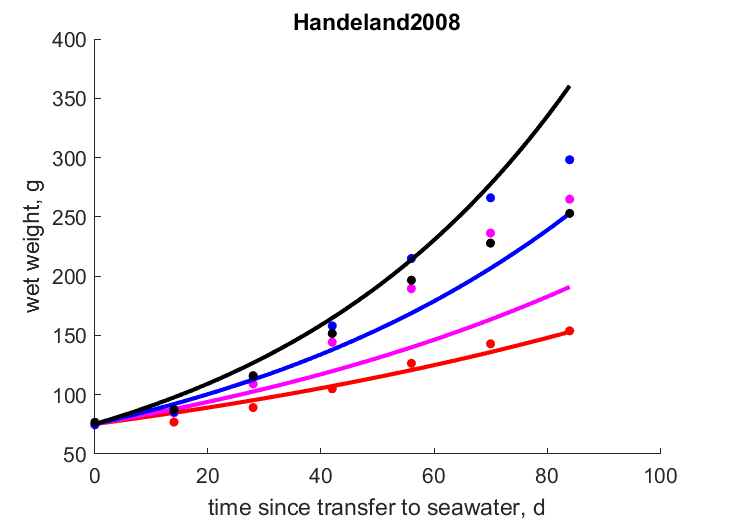
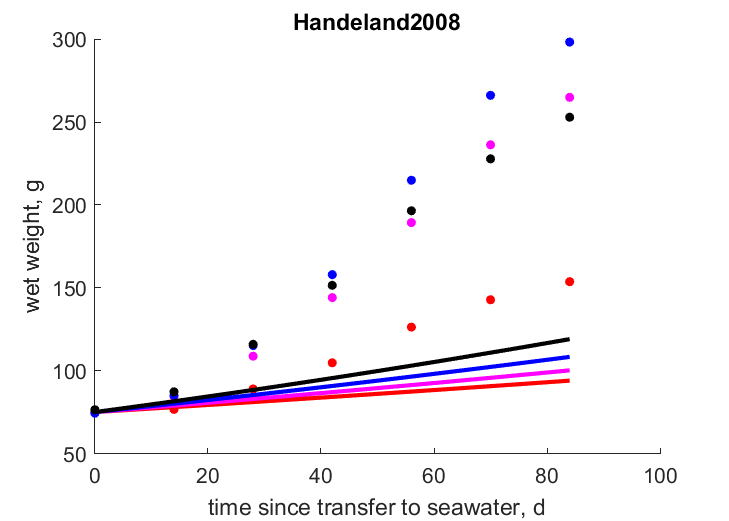
tout fonctionne (les résultats sont sans convergence)

diff --git a/Salmo_salar_farm_res.html b/Salmo_salar_farm_res.html
@@ -44,7 +44,7 @@
   </div>
 
   <div class="par">
-  <h4>COMPLETE = 2.5; MRE =    0.345; SMSE =    0.360 </h4>
+  <h4>COMPLETE = 2.5; MRE =    0.883; SMSE =    0.506 </h4>
   </div>
 
   <p class="clear"></p>
@@ -53,54 +53,54 @@
   <h2>Data & predictions</h2>
   <TABLE id="prd">
     <TR  class="head"><TH>data</TH> <TH>prd</TH> <TH>RE</TH>  <TH>symbol</TH> <TH>units</TH> <TH>description</TH> </TR>
-    <TR><TD>183</TD> <TD>145</TD> <TD>0.2075</TD> <TD>ab_norM</TD> <TD>d</TD> <TD>age at first feeding</TD></TR>
-    <TR><TD>183</TD> <TD>160.5</TD> <TD>0.123</TD> <TD>ab_norM2</TD> <TD>d</TD> <TD>age at first feeding</TD></TR>
-    <TR><TD>58.33</TD> <TD>25.37</TD> <TD>0.5652</TD> <TD>tb_12_AqG</TD> <TD>d</TD> <TD>time between hatching and first feeding</TD></TR>
-    <TR><TD>21.54</TD> <TD>23.75</TD> <TD>0.1027</TD> <TD>tb_norB</TD> <TD>d</TD> <TD>time between hatching and first feeding</TD></TR>
-    <TR><TD>390.8</TD> <TD>1436</TD> <TD>2.674</TD> <TD>ap_norNBP</TD> <TD>d</TD> <TD>age at puberty</TD></TR>
-    <TR><TD>1070</TD> <TD>1436</TD> <TD>0.3416</TD> <TD>ap_norire</TD> <TD>d</TD> <TD>age at puberty</TD></TR>
-    <TR><TD>1461</TD> <TD>1461</TD> <TD>6.076e-06</TD> <TD>am</TD> <TD>d</TD> <TD>max age at spawning</TD></TR>
-    <TR><TD>2.89</TD> <TD>2.92</TD> <TD>0.01055</TD> <TD>Lb_NorM2011</TD> <TD>cm</TD> <TD>total length at birth</TD></TR>
-    <TR><TD>2.81</TD> <TD>2.92</TD> <TD>0.03932</TD> <TD>Lb_NorM2012</TD> <TD>cm</TD> <TD>total length at birth</TD></TR>
-    <TR><TD>2.84</TD> <TD>2.92</TD> <TD>0.02834</TD> <TD>Lb_NorM2013</TD> <TD>cm</TD> <TD>total length at birth</TD></TR>
-    <TR><TD>2.83</TD> <TD>2.92</TD> <TD>0.03197</TD> <TD>Lb_NorS2013</TD> <TD>cm</TD> <TD>total length at birth</TD></TR>
-    <TR><TD>55.4</TD> <TD>62.01</TD> <TD>0.1194</TD> <TD>Lp_norSf</TD> <TD>cm</TD> <TD>postorbital-hypural length at at first spawning</TD></TR>
-    <TR><TD>57.5</TD> <TD>62.01</TD> <TD>0.07849</TD> <TD>Lp_norSm</TD> <TD>cm</TD> <TD>postorbital-hypural length at at first spawning</TD></TR>
-    <TR><TD>111</TD> <TD>108.8</TD> <TD>0.01948</TD> <TD>Li</TD> <TD>cm</TD> <TD>length at puberty</TD></TR>
-    <TR><TD>111.4</TD> <TD>0.4268</TD> <TD>0.9962</TD> <TD>V0_norM2011</TD> <TD>cm^3</TD> <TD>egg volume</TD></TR>
-    <TR><TD>121.2</TD> <TD>0.4268</TD> <TD>0.9965</TD> <TD>V0_norM2012</TD> <TD>cm^3</TD> <TD>egg volume</TD></TR>
-    <TR><TD>119.4</TD> <TD>0.4268</TD> <TD>0.9964</TD> <TD>V0_norM2013</TD> <TD>cm^3</TD> <TD>egg volume</TD></TR>
-    <TR><TD>3696</TD> <TD>3279</TD> <TD>0.1129</TD> <TD>Wwp_norf</TD> <TD>g</TD> <TD>wet weight at puberty</TD></TR>
-    <TR><TD>4008</TD> <TD>3279</TD> <TD>0.182</TD> <TD>Wwp_norm</TD> <TD>g</TD> <TD>wet weight at puberty</TD></TR>
-    <TR><TD>1.4e+04</TD> <TD>1.5e+04</TD> <TD>0.0711</TD> <TD>Wwi_norM</TD> <TD>g</TD> <TD>maximum wet weight</TD></TR>
-    <TR><TD colspan="2">see figure</TD> <TD>0.7142</TD> <TD>Tah_Gunnes1979</TD> <TD colspan="2">temperature, <font color="blue"><i>vs.</i></font> age at hatching</TD>
-    <TR><TD colspan="2">see figure</TD> <TD>0.3112</TD> <TD>Tah_Wallace1988</TD> <TD colspan="2">temperature, <font color="blue"><i>vs.</i></font> age at hatching</TD>
-    <TR><TD colspan="2">see figure</TD> <TD>0.1703</TD> <TD>Tah_Solberg2014</TD> <TD colspan="2">temperature, <font color="blue"><i>vs.</i></font> age at hatching</TD>
-    <TR><TD colspan="2">see figure</TD> <TD>0.4734</TD> <TD>Tah_Berg1999</TD> <TD colspan="2">temperature, <font color="blue"><i>vs.</i></font> age at hatching</TD>
-    <TR><TD colspan="2">see figure</TD> <TD>0.2971</TD> <TD>tL_iceT11</TD> <TD colspan="2">time, <font color="blue"><i>vs.</i></font> wet weight</TD>
-    <TR><TD colspan="2">see figure</TD> <TD>0.1714</TD> <TD>tL_iceT611</TD> <TD colspan="2">time, <font color="blue"><i>vs.</i></font> wet weight</TD>
-    <TR><TD colspan="2">see figure</TD> <TD>0.06793</TD> <TD>tL_norM2003</TD> <TD colspan="2">time, <font color="blue"><i>vs.</i></font> fork length</TD>
-    <TR><TD colspan="2">see figure</TD> <TD>0.06684</TD> <TD>tL_norM2004</TD> <TD colspan="2">time, <font color="blue"><i>vs.</i></font> fork length</TD>
-    <TR><TD colspan="2">see figure</TD> <TD>0.5011</TD> <TD>tWwVe_T12</TD> <TD colspan="2">time since fertilization, <font color="blue"><i>vs.</i></font> wet weight excluding yolk</TD>
-    <TR><TD colspan="2">see figure</TD> <TD>0.08501</TD> <TD>tWwVe_T10</TD> <TD colspan="2">time since fertilization, <font color="blue"><i>vs.</i></font> wet weight excluding yolk</TD>
-    <TR><TD colspan="2">see figure</TD> <TD>0.2295</TD> <TD>tWwVe_T8</TD> <TD colspan="2">time since fertilization, <font color="blue"><i>vs.</i></font> wet weight excluding yolk</TD>
-    <TR><TD colspan="2">see figure</TD> <TD>0.3417</TD> <TD>tWwYe_T12</TD> <TD colspan="2">time since fertilization, <font color="blue"><i>vs.</i></font> yolk wet weight</TD>
-    <TR><TD colspan="2">see figure</TD> <TD>0.2521</TD> <TD>tWwYe_T10</TD> <TD colspan="2">time since fertilization, <font color="blue"><i>vs.</i></font> yolk wet weight</TD>
-    <TR><TD colspan="2">see figure</TD> <TD>0.1784</TD> <TD>tWwYe_T8</TD> <TD colspan="2">time since fertilization, <font color="blue"><i>vs.</i></font> yolk wet weight</TD>
-    <TR><TD colspan="2">see figure</TD> <TD>2.088</TD> <TD>tWw_norB</TD> <TD colspan="2">time, <font color="blue"><i>vs.</i></font> wet weight</TD>
-    <TR><TD colspan="2">see figure</TD> <TD>0.3012</TD> <TD>tWw_T4_Mow</TD> <TD colspan="2">time since transfer to seawater, <font color="blue"><i>vs.</i></font> wet weight</TD>
-    <TR><TD colspan="2">see figure</TD> <TD>0.1685</TD> <TD>tWw_T8_Mow</TD> <TD colspan="2">time since transfer to seawater, <font color="blue"><i>vs.</i></font> wet weight</TD>
-    <TR><TD colspan="2">see figure</TD> <TD>0.03895</TD> <TD>tWw_T6_AqG</TD> <TD colspan="2">time since transfer to seawater, <font color="blue"><i>vs.</i></font> wet weight</TD>
-    <TR><TD colspan="2">see figure</TD> <TD>0.2096</TD> <TD>tWw_T10_AqG</TD> <TD colspan="2">time since transfer to seawater, <font color="blue"><i>vs.</i></font> wet weight</TD>
-    <TR><TD colspan="2">see figure</TD> <TD>0.1494</TD> <TD>tWw_T14_AqG</TD> <TD colspan="2">time since transfer to seawater, <font color="blue"><i>vs.</i></font> wet weight</TD>
-    <TR><TD colspan="2">see figure</TD> <TD>1.329</TD> <TD>tWw_T18_AqG</TD> <TD colspan="2">time since transfer to seawater, <font color="blue"><i>vs.</i></font> wet weight</TD>
-    <TR><TD colspan="2">see figure</TD> <TD>0.4663</TD> <TD>LWw_AqG</TD> <TD colspan="2">fork length, <font color="blue"><i>vs.</i></font> wet weight</TD>
-    <TR><TD colspan="2">see figure</TD> <TD>0.05244</TD> <TD>LWw_norM</TD> <TD colspan="2">fork length, <font color="blue"><i>vs.</i></font> wet weight</TD>
-    <TR><TD>2.91</TD> <TD>2.877</TD> <TD>0.01152</TD> <TD>Ri</TD> <TD>-/d</TD> <TD>maximum number of live embryos</TD></TR>
-    <TR class="psd"><TD>0.02</TD> <TD>0.03427</TD> <TD>0.7135</TD> <TD>psd.v</TD> <TD>cm/d</TD> <TD>energy conductance</TD></TR>
-    <TR class="psd"><TD>0.8</TD> <TD>0.9801</TD> <TD>0.2251</TD> <TD>psd.kap</TD> <TD>-</TD> <TD>allocation fraction to soma</TD></TR>
+    <TR><TD>183</TD> <TD>148.5</TD> <TD>0.1884</TD> <TD>ab_norM</TD> <TD>d</TD> <TD>age at first feeding</TD></TR>
+    <TR><TD>183</TD> <TD>174.3</TD> <TD>0.04733</TD> <TD>ab_norM2</TD> <TD>d</TD> <TD>age at first feeding</TD></TR>
+    <TR><TD>58.33</TD> <TD>44.32</TD> <TD>0.2403</TD> <TD>tb_12_AqG</TD> <TD>d</TD> <TD>time between hatching and first feeding</TD></TR>
+    <TR><TD>21.54</TD> <TD>41.59</TD> <TD>0.9308</TD> <TD>tb_norB</TD> <TD>d</TD> <TD>time between hatching and first feeding</TD></TR>
+    <TR><TD>390.8</TD> <TD>1771</TD> <TD>3.533</TD> <TD>ap_norNBP</TD> <TD>d</TD> <TD>age at puberty</TD></TR>
+    <TR><TD>1070</TD> <TD>1771</TD> <TD>0.6553</TD> <TD>ap_norire</TD> <TD>d</TD> <TD>age at puberty</TD></TR>
+    <TR><TD>1461</TD> <TD>1.328e+04</TD> <TD>8.092</TD> <TD>am</TD> <TD>d</TD> <TD>max age at spawning</TD></TR>
+    <TR><TD>2.89</TD> <TD>3.95</TD> <TD>0.3667</TD> <TD>Lb_NorM2011</TD> <TD>cm</TD> <TD>total length at birth</TD></TR>
+    <TR><TD>2.81</TD> <TD>3.95</TD> <TD>0.4056</TD> <TD>Lb_NorM2012</TD> <TD>cm</TD> <TD>total length at birth</TD></TR>
+    <TR><TD>2.84</TD> <TD>3.95</TD> <TD>0.3908</TD> <TD>Lb_NorM2013</TD> <TD>cm</TD> <TD>total length at birth</TD></TR>
+    <TR><TD>2.83</TD> <TD>3.95</TD> <TD>0.3957</TD> <TD>Lb_NorS2013</TD> <TD>cm</TD> <TD>total length at birth</TD></TR>
+    <TR><TD>55.4</TD> <TD>34.44</TD> <TD>0.3783</TD> <TD>Lp_norSf</TD> <TD>cm</TD> <TD>postorbital-hypural length at at first spawning</TD></TR>
+    <TR><TD>57.5</TD> <TD>34.44</TD> <TD>0.401</TD> <TD>Lp_norSm</TD> <TD>cm</TD> <TD>postorbital-hypural length at at first spawning</TD></TR>
+    <TR><TD>111</TD> <TD>107.6</TD> <TD>0.0309</TD> <TD>Li</TD> <TD>cm</TD> <TD>length at puberty</TD></TR>
+    <TR><TD>111.4</TD> <TD>0.9876</TD> <TD>0.9911</TD> <TD>V0_norM2011</TD> <TD>cm^3</TD> <TD>egg volume</TD></TR>
+    <TR><TD>121.2</TD> <TD>0.9876</TD> <TD>0.9919</TD> <TD>V0_norM2012</TD> <TD>cm^3</TD> <TD>egg volume</TD></TR>
+    <TR><TD>119.4</TD> <TD>0.9876</TD> <TD>0.9917</TD> <TD>V0_norM2013</TD> <TD>cm^3</TD> <TD>egg volume</TD></TR>
+    <TR><TD>3696</TD> <TD>522.2</TD> <TD>0.8587</TD> <TD>Wwp_norf</TD> <TD>g</TD> <TD>wet weight at puberty</TD></TR>
+    <TR><TD>4008</TD> <TD>522.2</TD> <TD>0.8697</TD> <TD>Wwp_norm</TD> <TD>g</TD> <TD>wet weight at puberty</TD></TR>
+    <TR><TD>1.4e+04</TD> <TD>1.198e+04</TD> <TD>0.1442</TD> <TD>Wwi_norM</TD> <TD>g</TD> <TD>maximum wet weight</TD></TR>
+    <TR><TD colspan="2">see figure</TD> <TD>0.5087</TD> <TD>Tah_Gunnes1979</TD> <TD colspan="2">temperature, <font color="blue"><i>vs.</i></font> age at hatching</TD>
+    <TR><TD colspan="2">see figure</TD> <TD>0.4062</TD> <TD>Tah_Wallace1988</TD> <TD colspan="2">temperature, <font color="blue"><i>vs.</i></font> age at hatching</TD>
+    <TR><TD colspan="2">see figure</TD> <TD>0.07952</TD> <TD>Tah_Solberg2014</TD> <TD colspan="2">temperature, <font color="blue"><i>vs.</i></font> age at hatching</TD>
+    <TR><TD colspan="2">see figure</TD> <TD>0.2926</TD> <TD>Tah_Berg1999</TD> <TD colspan="2">temperature, <font color="blue"><i>vs.</i></font> age at hatching</TD>
+    <TR><TD colspan="2">see figure</TD> <TD>0.08885</TD> <TD>tL_iceT11</TD> <TD colspan="2">time, <font color="blue"><i>vs.</i></font> wet weight</TD>
+    <TR><TD colspan="2">see figure</TD> <TD>0.04337</TD> <TD>tL_iceT611</TD> <TD colspan="2">time, <font color="blue"><i>vs.</i></font> wet weight</TD>
+    <TR><TD colspan="2">see figure</TD> <TD>0.4568</TD> <TD>tL_norM2003</TD> <TD colspan="2">time, <font color="blue"><i>vs.</i></font> fork length</TD>
+    <TR><TD colspan="2">see figure</TD> <TD>0.5247</TD> <TD>tL_norM2004</TD> <TD colspan="2">time, <font color="blue"><i>vs.</i></font> fork length</TD>
+    <TR><TD colspan="2">see figure</TD> <TD>1.214</TD> <TD>tWwVe_T12</TD> <TD colspan="2">time since fertilization, <font color="blue"><i>vs.</i></font> wet weight excluding yolk</TD>
+    <TR><TD colspan="2">see figure</TD> <TD>0.4648</TD> <TD>tWwVe_T10</TD> <TD colspan="2">time since fertilization, <font color="blue"><i>vs.</i></font> wet weight excluding yolk</TD>
+    <TR><TD colspan="2">see figure</TD> <TD>0.1408</TD> <TD>tWwVe_T8</TD> <TD colspan="2">time since fertilization, <font color="blue"><i>vs.</i></font> wet weight excluding yolk</TD>
+    <TR><TD colspan="2">see figure</TD> <TD>2.954</TD> <TD>tWwYe_T12</TD> <TD colspan="2">time since fertilization, <font color="blue"><i>vs.</i></font> yolk wet weight</TD>
+    <TR><TD colspan="2">see figure</TD> <TD>2.655</TD> <TD>tWwYe_T10</TD> <TD colspan="2">time since fertilization, <font color="blue"><i>vs.</i></font> yolk wet weight</TD>
+    <TR><TD colspan="2">see figure</TD> <TD>2.453</TD> <TD>tWwYe_T8</TD> <TD colspan="2">time since fertilization, <font color="blue"><i>vs.</i></font> yolk wet weight</TD>
+    <TR><TD colspan="2">see figure</TD> <TD>0.1303</TD> <TD>tWw_norB</TD> <TD colspan="2">time, <font color="blue"><i>vs.</i></font> wet weight</TD>
+    <TR><TD colspan="2">see figure</TD> <TD>0.08337</TD> <TD>tWw_T4_Mow</TD> <TD colspan="2">time since transfer to seawater, <font color="blue"><i>vs.</i></font> wet weight</TD>
+    <TR><TD colspan="2">see figure</TD> <TD>0.2741</TD> <TD>tWw_T8_Mow</TD> <TD colspan="2">time since transfer to seawater, <font color="blue"><i>vs.</i></font> wet weight</TD>
+    <TR><TD colspan="2">see figure</TD> <TD>0.2346</TD> <TD>tWw_T6_AqG</TD> <TD colspan="2">time since transfer to seawater, <font color="blue"><i>vs.</i></font> wet weight</TD>
+    <TR><TD colspan="2">see figure</TD> <TD>0.4461</TD> <TD>tWw_T10_AqG</TD> <TD colspan="2">time since transfer to seawater, <font color="blue"><i>vs.</i></font> wet weight</TD>
+    <TR><TD colspan="2">see figure</TD> <TD>0.4738</TD> <TD>tWw_T14_AqG</TD> <TD colspan="2">time since transfer to seawater, <font color="blue"><i>vs.</i></font> wet weight</TD>
+    <TR><TD colspan="2">see figure</TD> <TD>2.742</TD> <TD>tWw_T18_AqG</TD> <TD colspan="2">time since transfer to seawater, <font color="blue"><i>vs.</i></font> wet weight</TD>
+    <TR><TD colspan="2">see figure</TD> <TD>0.2231</TD> <TD>LWw_AqG</TD> <TD colspan="2">fork length, <font color="blue"><i>vs.</i></font> wet weight</TD>
+    <TR><TD colspan="2">see figure</TD> <TD>0.08725</TD> <TD>LWw_norM</TD> <TD colspan="2">fork length, <font color="blue"><i>vs.</i></font> wet weight</TD>
+    <TR><TD>2.91</TD> <TD>5.328</TD> <TD>0.8306</TD> <TD>Ri</TD> <TD>-/d</TD> <TD>maximum number of live embryos</TD></TR>
+    <TR class="psd"><TD>0.02</TD> <TD>0.02569</TD> <TD>0.2847</TD> <TD>psd.v</TD> <TD>cm/d</TD> <TD>energy conductance</TD></TR>
+    <TR class="psd"><TD>0.8</TD> <TD>0.484</TD> <TD>0.395</TD> <TD>psd.kap</TD> <TD>-</TD> <TD>allocation fraction to soma</TD></TR>
     <TR class="psd"><TD>0.95</TD> <TD>0.95</TD> <TD>  0</TD> <TD>psd.kap_R</TD> <TD>-</TD> <TD>reproduction efficiency</TD></TR>
-    <TR class="psd"><TD> 18</TD> <TD>89.15</TD> <TD>3.953</TD> <TD>psd.p_M</TD> <TD>J/d.cm^3</TD> <TD>vol-spec som maint</TD></TR>
+    <TR class="psd"><TD> 18</TD> <TD>21.14</TD> <TD>0.1745</TD> <TD>psd.p_M</TD> <TD>J/d.cm^3</TD> <TD>vol-spec som maint</TD></TR>
     <TR class="psd"><TD>0.002</TD> <TD>0.002</TD> <TD>  0</TD> <TD>psd.k_J</TD> <TD>1/d</TD> <TD>maturity maint rate coefficient</TD></TR>
     <TR class="psd"><TD>0.8</TD> <TD>0.8327</TD> <TD>0.04082</TD> <TD>psd.kap_G</TD> <TD>-</TD> <TD>growth efficiency</TD></TR>
   </TABLE>
@@ -111,25 +111,25 @@
   <TABLE id="par">
     <TR class="head"><TH>symbol</TH> <TH>units</TH> <TH>value</TH>  <TH>free</TH> <TH>description</TH> </TR>
     <TR><TD>T_ref</TD> <TD>K</TD> <TD>293.1</TD> <TD>0</TD> <TD>Reference temperature</TD></TR>
-    <TR><TD>T_A</TD> <TD>K</TD> <TD>5366</TD> <TD>1</TD> <TD>Arrhenius temperature</TD></TR>
-    <TR><TD>z</TD> <TD>-</TD> <TD>1.828</TD> <TD>1</TD> <TD>zoom factor</TD></TR>
+    <TR><TD>T_A</TD> <TD>K</TD> <TD>5192</TD> <TD>1</TD> <TD>Arrhenius temperature</TD></TR>
+    <TR><TD>z</TD> <TD>-</TD> <TD>12.63</TD> <TD>1</TD> <TD>zoom factor</TD></TR>
     <TR><TD>F_m</TD> <TD>l/d.cm^2</TD> <TD>6.5</TD> <TD>0</TD> <TD>{F_m}, max spec searching rate</TD></TR>
     <TR><TD>kap_X</TD> <TD>-</TD> <TD>0.8</TD> <TD>0</TD> <TD>digestion efficiency of food to reserve</TD></TR>
     <TR><TD>kap_P</TD> <TD>-</TD> <TD>0.1</TD> <TD>0</TD> <TD>faecation efficiency of food to faeces</TD></TR>
-    <TR><TD>v</TD> <TD>cm/d</TD> <TD>0.03427</TD> <TD>1</TD> <TD>energy conductance</TD></TR>
-    <TR><TD>kap</TD> <TD>-</TD> <TD>0.9801</TD> <TD>1</TD> <TD>allocation fraction to soma</TD></TR>
+    <TR><TD>v</TD> <TD>cm/d</TD> <TD>0.02569</TD> <TD>1</TD> <TD>energy conductance</TD></TR>
+    <TR><TD>kap</TD> <TD>-</TD> <TD>0.484</TD> <TD>1</TD> <TD>allocation fraction to soma</TD></TR>
     <TR><TD>kap_R</TD> <TD>-</TD> <TD>0.95</TD> <TD>0</TD> <TD>reproduction efficiency</TD></TR>
-    <TR><TD>p_M</TD> <TD>J/d.cm^3</TD> <TD>89.15</TD> <TD>1</TD> <TD>[p_M], vol-spec somatic maint</TD></TR>
+    <TR><TD>p_M</TD> <TD>J/d.cm^3</TD> <TD>21.14</TD> <TD>1</TD> <TD>[p_M], vol-spec somatic maint</TD></TR>
     <TR><TD>p_T</TD> <TD>J/d.cm^2</TD> <TD>  0</TD> <TD>0</TD> <TD>{p_T}, surf-spec somatic maint</TD></TR>
     <TR><TD>k_J</TD> <TD>1/d</TD> <TD>0.002</TD> <TD>0</TD> <TD>maturity maint rate coefficient</TD></TR>
     <TR><TD>E_G</TD> <TD>J/cm^3</TD> <TD>5025</TD> <TD>0</TD> <TD>[E_G], spec cost for structure</TD></TR>
-    <TR><TD>E_Hb</TD> <TD>J</TD> <TD>22.19</TD> <TD>1</TD> <TD>maturity at birth</TD></TR>
-    <TR><TD>E_Hh</TD> <TD>J</TD> <TD>12.16</TD> <TD>1</TD> <TD>maturity at hatching</TD></TR>
-    <TR><TD>E_Hj</TD> <TD>J</TD> <TD>4.037e+04</TD> <TD>1</TD> <TD>maturity at metam</TD></TR>
-    <TR><TD>E_Hp</TD> <TD>J</TD> <TD>3.664e+05</TD> <TD>1</TD> <TD>maturity at puberty</TD></TR>
-    <TR><TD>h_a</TD> <TD>1/d^2</TD> <TD>3.37e-24</TD> <TD>1</TD> <TD>Weibull aging acceleration</TD></TR>
+    <TR><TD>E_Hb</TD> <TD>J</TD> <TD>775.7</TD> <TD>1</TD> <TD>maturity at birth</TD></TR>
+    <TR><TD>E_Hh</TD> <TD>J</TD> <TD>207.3</TD> <TD>1</TD> <TD>maturity at hatching</TD></TR>
+    <TR><TD>E_Hj</TD> <TD>J</TD> <TD>1090</TD> <TD>1</TD> <TD>maturity at metam</TD></TR>
+    <TR><TD>E_Hp</TD> <TD>J</TD> <TD>6.802e+05</TD> <TD>1</TD> <TD>maturity at puberty</TD></TR>
+    <TR><TD>h_a</TD> <TD>1/d^2</TD> <TD>2.679e-26</TD> <TD>1</TD> <TD>Weibull aging acceleration</TD></TR>
     <TR><TD>s_G</TD> <TD>-</TD> <TD> 10</TD> <TD>0</TD> <TD>Gompertz stress coefficient</TD></TR>
-    <TR><TD>del_M</TD> <TD>-</TD> <TD>0.1884</TD> <TD>1</TD> <TD>shape coefficient</TD></TR>
+    <TR><TD>del_M</TD> <TD>-</TD> <TD>0.1312</TD> <TD>1</TD> <TD>shape coefficient</TD></TR>
     <TR><TD>f</TD> <TD>-</TD> <TD>  1</TD> <TD>0</TD> <TD>scaled functional response for 0-var data</TD></TR>
     <TR><TD>f_nat</TD> <TD>-</TD> <TD>0.7</TD> <TD>0</TD> <TD>scaled functional response for 0-var data, when reared in natural condition (not ad lib)</TD></TR>
     <TR><TD>f_LWw</TD> <TD>-</TD> <TD>  1</TD> <TD>0</TD> <TD>scaled functional response for 1-var data</TD></TR>

diff --git a/pars_init_Salmo_salar_wild.m b/pars_init_Salmo_salar_wild.m
@@ -6,7 +6,7 @@ metaPar.model = 'abj';
 par.T_ref = 293.15;   free.T_ref = 0;   units.T_ref = 'K';        label.T_ref = 'Reference temperature'; 
 
 %% core primary parameters 
-par.T_A = 7500;       free.T_A   = 1;   units.T_A = 'K';          label.T_A = 'Arrhenius temperature'; %on va l'avoir
+par.T_A = 4500;       free.T_A   = 1;   units.T_A = 'K';          label.T_A = 'Arrhenius temperature'; %on va l'avoir
 par.z = 4.841;        free.z     = 1;   units.z = '-';            label.z = 'zoom factor'; 
 par.F_m = 6.5;        free.F_m   = 0;   units.F_m = 'l/d.cm^2';   label.F_m = '{F_m}, max spec searching rate'; %need data bouffz
 par.kap_X = 0.8;      free.kap_X = 0;   units.kap_X = '-';        label.kap_X = 'digestion efficiency of food to reserve'; 
@@ -29,16 +29,19 @@ par.s_G = 10;         free.s_G   = 0;   units.s_G = '-';          label.s_G = 'G
 par.del_M = 0.17853;  free.del_M = 1;   units.del_M = '-';        label.del_M = 'shape coefficient'; 
 par.f = 1;          free.f     = 0;   units.f = '-';            label.f = 'scaled functional response for 0-var data'; 
 par.f_nat = 0.7;          free.f_nat     = 0;   units.f_nat = '-';            label.f_nat = 'scaled functional response for 0-var data, when reared in natural condition (not ad lib)'; 
-par.f_LWw = 1;  free.f_LWw = 0;   units.f_LWw = '-';        label.f_LWw = 'scaled functional response for 1-var data'; 
-par.f_tL = 1;  free.f_tL  = 0;   units.f_tL = '-';         label.f_tL = 'scaled functional response for 1-var data'; 
+par.f_LWw = 1;  free.f_LWw = 1;   units.f_LWw = '-';        label.f_LWw = 'scaled functional response for 1-var data'; 
+par.f_tL = 1;  free.f_tL  = 1;   units.f_tL = '-';         label.f_tL = 'scaled functional response for 1-var data'; 
 par.f_tL_nat = 0.7;  free.f_tL_nat  = 0;   units.f_tL_nat = '-';         label.f_tL_nat = 'scaled functional response for 1-var data, natural f'; 
 par.f_tWeVe_tWeYe = 1;  free.f_tWeVe_tWeYe = 0; units.f_tWeVe_tWeYe = '-';  label.f_tWeVe_tWeYe = 'scaled functional response for embryo growth';
-par.W0_Rottiers1993 = 67.7; free.W0_Rottiers1993 = 0;units.W0_Rottiers1993 = 'g' ; label.W0_Rottiers1993 = 'Initial Wet weight in Rottiers1993';
+par.W0_Rottiers1993 = 67.7; free.W0_Rottiers1993 = 1;units.W0_Rottiers1993 = 'g' ; label.W0_Rottiers1993 = 'Initial Wet weight in Rottiers1993';
 par.W0_Einum2000 = 67.7; free.W0_Einum2000 = 0; units.W0_Einum2000 = 'g'; label.W0_Einum2000 = 'Initial Wet weight in Einum2000';
 par.W0_McCarthy2003 = 0.3; free.W0_McCarthy2003 = 0; units.W0_McCarthy2003 = 'g'; label.W0_McCarthy2003 = 'Initial Wet weight in McCarthy2003';
 par.W0_Rowe1990 = 2.8; free.W0_Rowe1990 = 0; units.W0_Rowe1990 = 'g'; label.W0_Rowe1990 = 'Initial Wet weight in Rowe1990';
 par.L0_spa = 3.77; free.L0_spa = 0; units.L0_spa = 'cm'; label.L0_spa = 'initial length in Nicieza1994';
 par.L0_usa = 19.7; free.L0_usa = 0; units.L0_usa = 'cm'; label.L0_usa = 'initial length in Rottiers1993';
+par.L0_scoS = 3.75; free.L0_scoS = 0; units.L0_scoS = 'cm'; label.L0_scoS = 'initial length in Nicieza1994 scotland data';
+par.L0_scoAa = 6.5; free.L0_scoAa = 0; units.L0_scoAa = 'cm'; label.L0_scoAa = 'initial length in Rowe1990';
+par.L0_nor = 4.8; free.L0_nor = 0; units.L0_nor = 'cm'; label.L0_nor = 'initial length in Rowe1990';
 
 %% set chemical parameters from Kooy2010 
 [par, units, label, free] = addchem(par, units, label, free, metaData.phylum, metaData.class); 

diff --git a/predict_Salmo_salar_wild.m b/predict_Salmo_salar_wild.m
@@ -514,7 +514,7 @@ ELw_nor5 = L/ del_M; % cm, total length
 
 %   % time-length %%% _nor7 f= ad lib
   TC_tL_nor7 = tempcorr(temp.tL_nor7, T_ref, T_A);
-  kT_M = k_M * TC_tL_norSu7; %%%km corrected
+  kT_M = k_M * TC_tL_nor7; %%%km corrected
   rT_j = rho_j * kT_M; %%%rhoj corrected
   rT_B = rho_B * kT_M; %%%%rhoB corrected
   tT_j = (tau_j - tau_b)/ kT_M;   
@@ -667,9 +667,9 @@ if info ~= 1 || info_nat ~= 1 % numerical procedure failed
 %   % length-weight   %%%%
 %   EWw_AqG = (LWw_AqG(:,1) * del_M).^3 * (1 + f * ome); % g, wet weight
 %   EWw_norM = (LWw_norM(:,1) * del_M).^3 * (1 + f * ome); % g, wet weight
-EWw_nor = (LWw_nor(:,1) * del_M).^3 * (1 + f_nat * ome); g, wet weight
-EWw_scoA = (LWw_scoA(:,1) * del_M).^3 * (1 + f_nat * ome); g, wet weight
-ELWw_sco = (LWw_sco(:,1) * del_M).^3 * (1 + f_nat * ome); g, wet weight
+EWw_nor = (LWw_nor(:,1) * del_M).^3 * (1 + f_nat * ome);% g, wet weight
+EWw_scoA = (LWw_scoA(:,1) * del_M).^3 * (1 + f_nat * ome);% g, wet weight
+ELWw_sco = (LWw_sco(:,1) * del_M).^3 * (1 + f_nat * ome);% g, wet weight
 EWw_Can = (LWw_Can(:,1) * del_M).^3 * (1 + f_nat * ome); % g, wet weight
 ELWw_usa = (LWw_usa(:,1) * del_M).^3 * (1 + f_nat * ome); % g, wet weight
 EWw_Nor = (LWw_Nor(:,1) * del_M).^3 * (1 + f_nat * ome); % g, wet weight

diff --git a/run_Salmo_salar_wild.m b/run_Salmo_salar_wild.m
@@ -8,7 +8,7 @@ close all
 global pets
 
 pets = {'Salmo_salar_wild'};
-% check_my_pet(pets); 
+check_my_pet(pets); 
 
 % Read about how to set estimation and output options (estim_options) on the online
 % manual: http://www.debtheory.org/wiki/index.php?title=Run_file
@@ -22,7 +22,7 @@ estim_options('pars_init_method', 2);% 1 = from from .mat file, 2 = from pars_in
 estim_options('loss_function', 'sb');
 estim_options('report', 1);
 estim_options('results_output', 3);% 0 = .mat only, 2 = .mat file and print to html, 3 = .mat file and print to html and png, 4 = .mat file and print to html incl. implied traits and png  
-% estim_options('method', 'nm');
-estim_options('method', 'no');
+estim_options('method', 'nm');
+% estim_options('method', 'no');
 
 estim_pars; 

diff --git a/run_Salmo_salar_farm.m b/run_Salmo_salar_farm.m
@@ -22,7 +22,7 @@ estim_options('pars_init_method', 2);% 1 = from from .mat file, 2 = from pars_in
 estim_options('loss_function', 'sb');
 estim_options('report', 1);
 estim_options('results_output', 3);% 0 = .mat only, 2 = .mat file and print to html, 3 = .mat file and print to html and png, 4 = .mat file and print to html incl. implied traits and png  
-% estim_options('method', 'nm');
-estim_options('method', 'no');
+estim_options('method', 'nm');
+% estim_options('method', 'no');
 
 estim_pars; 
